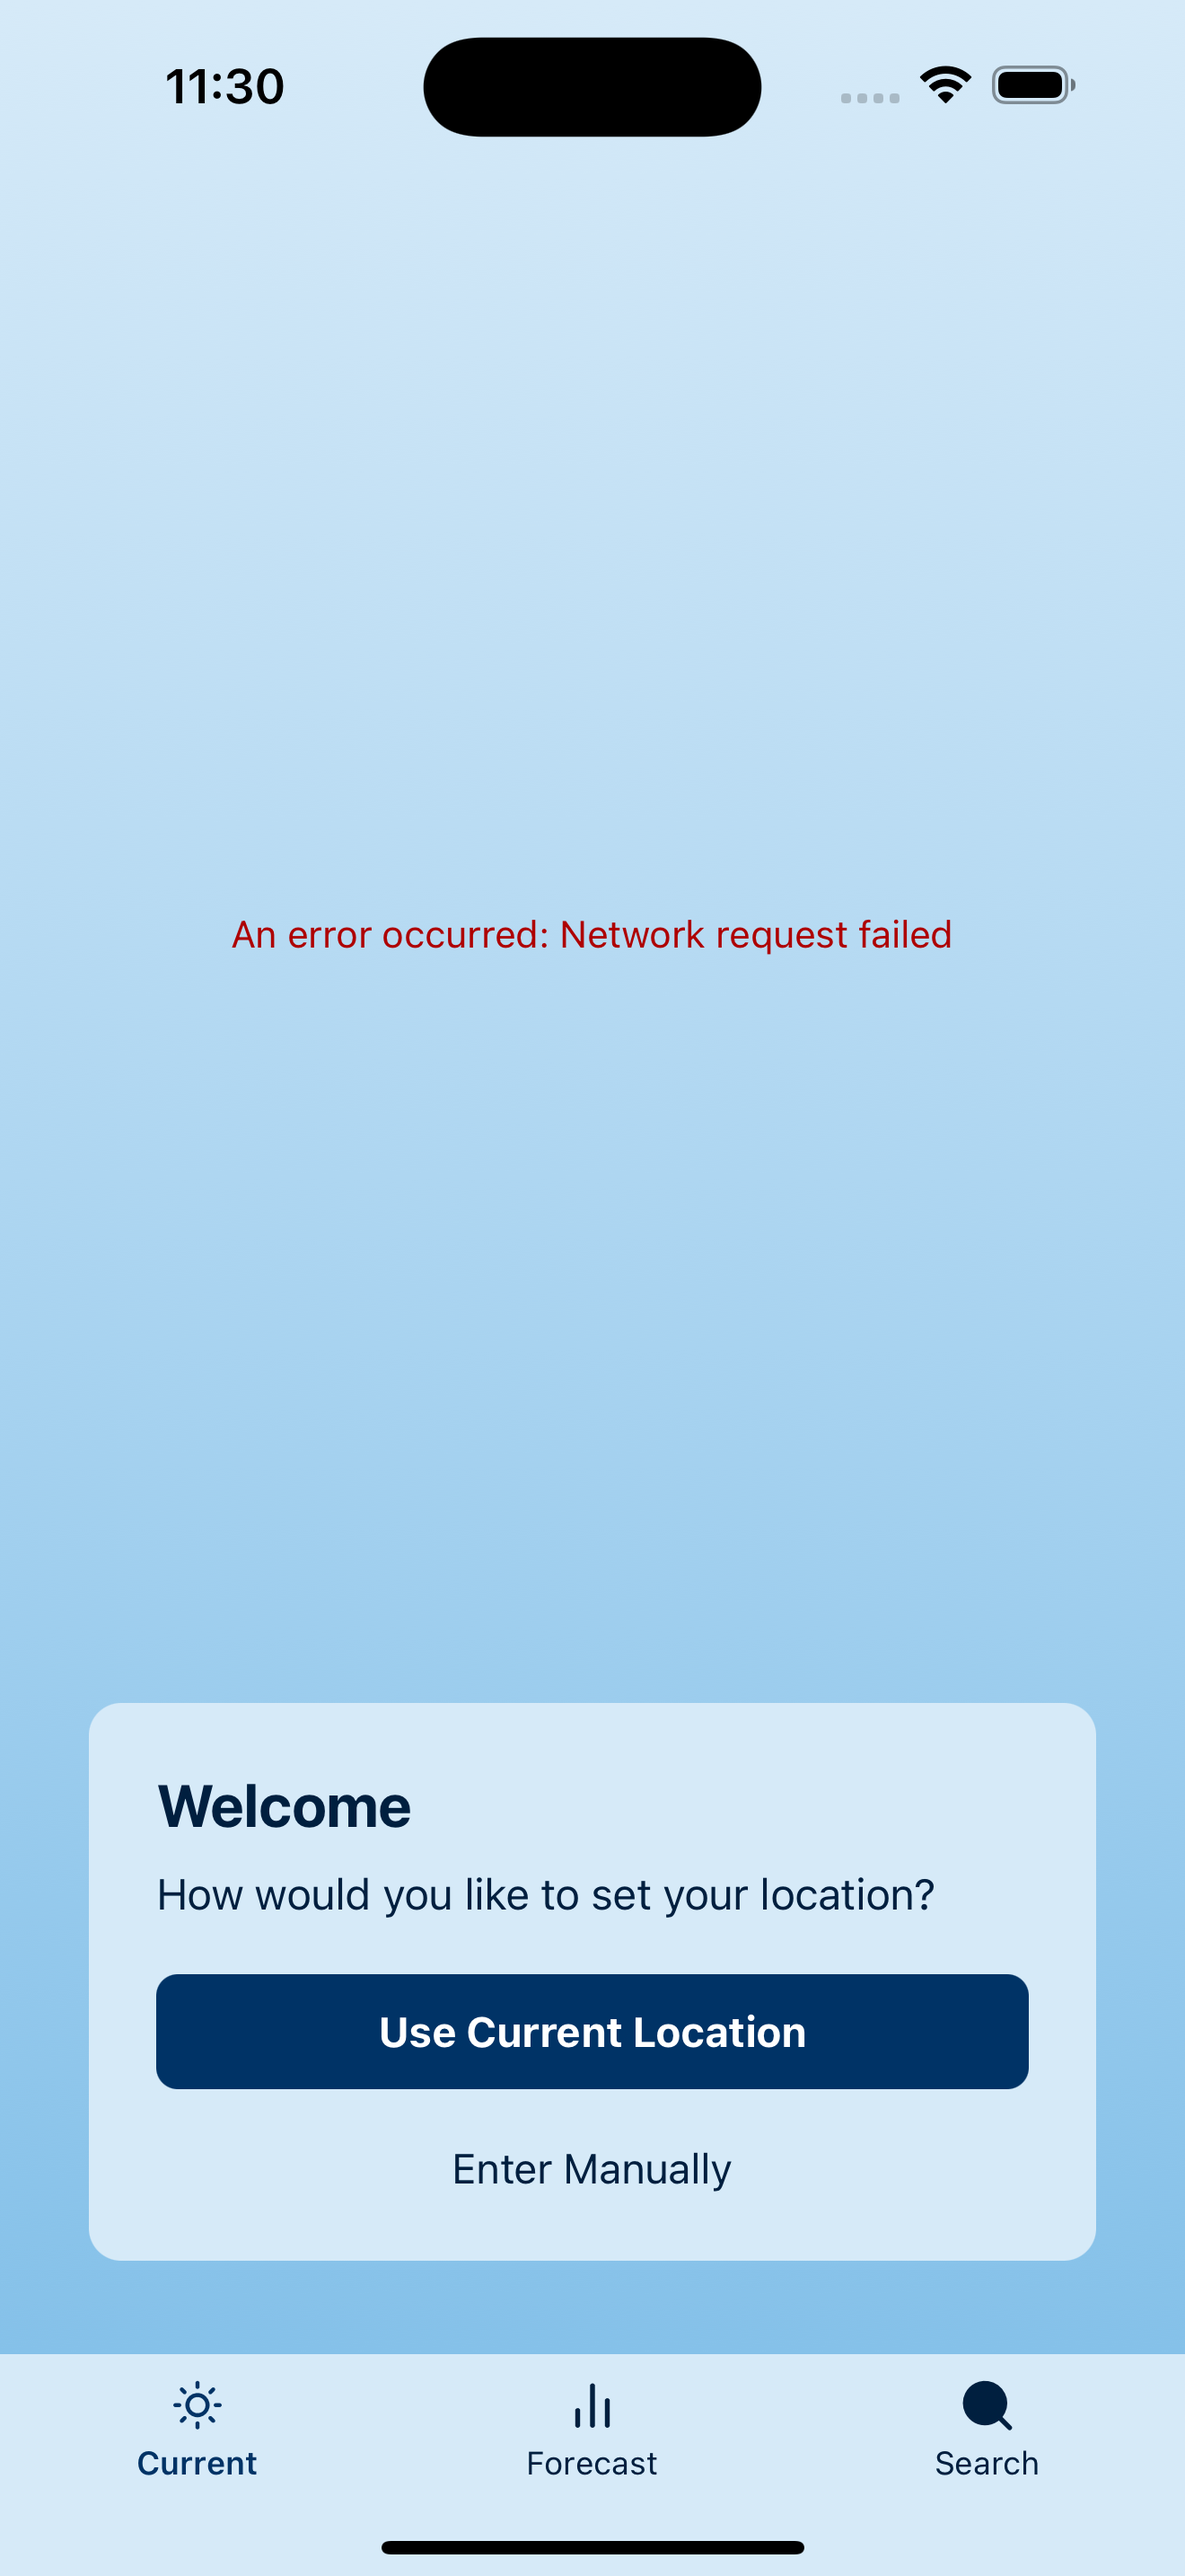
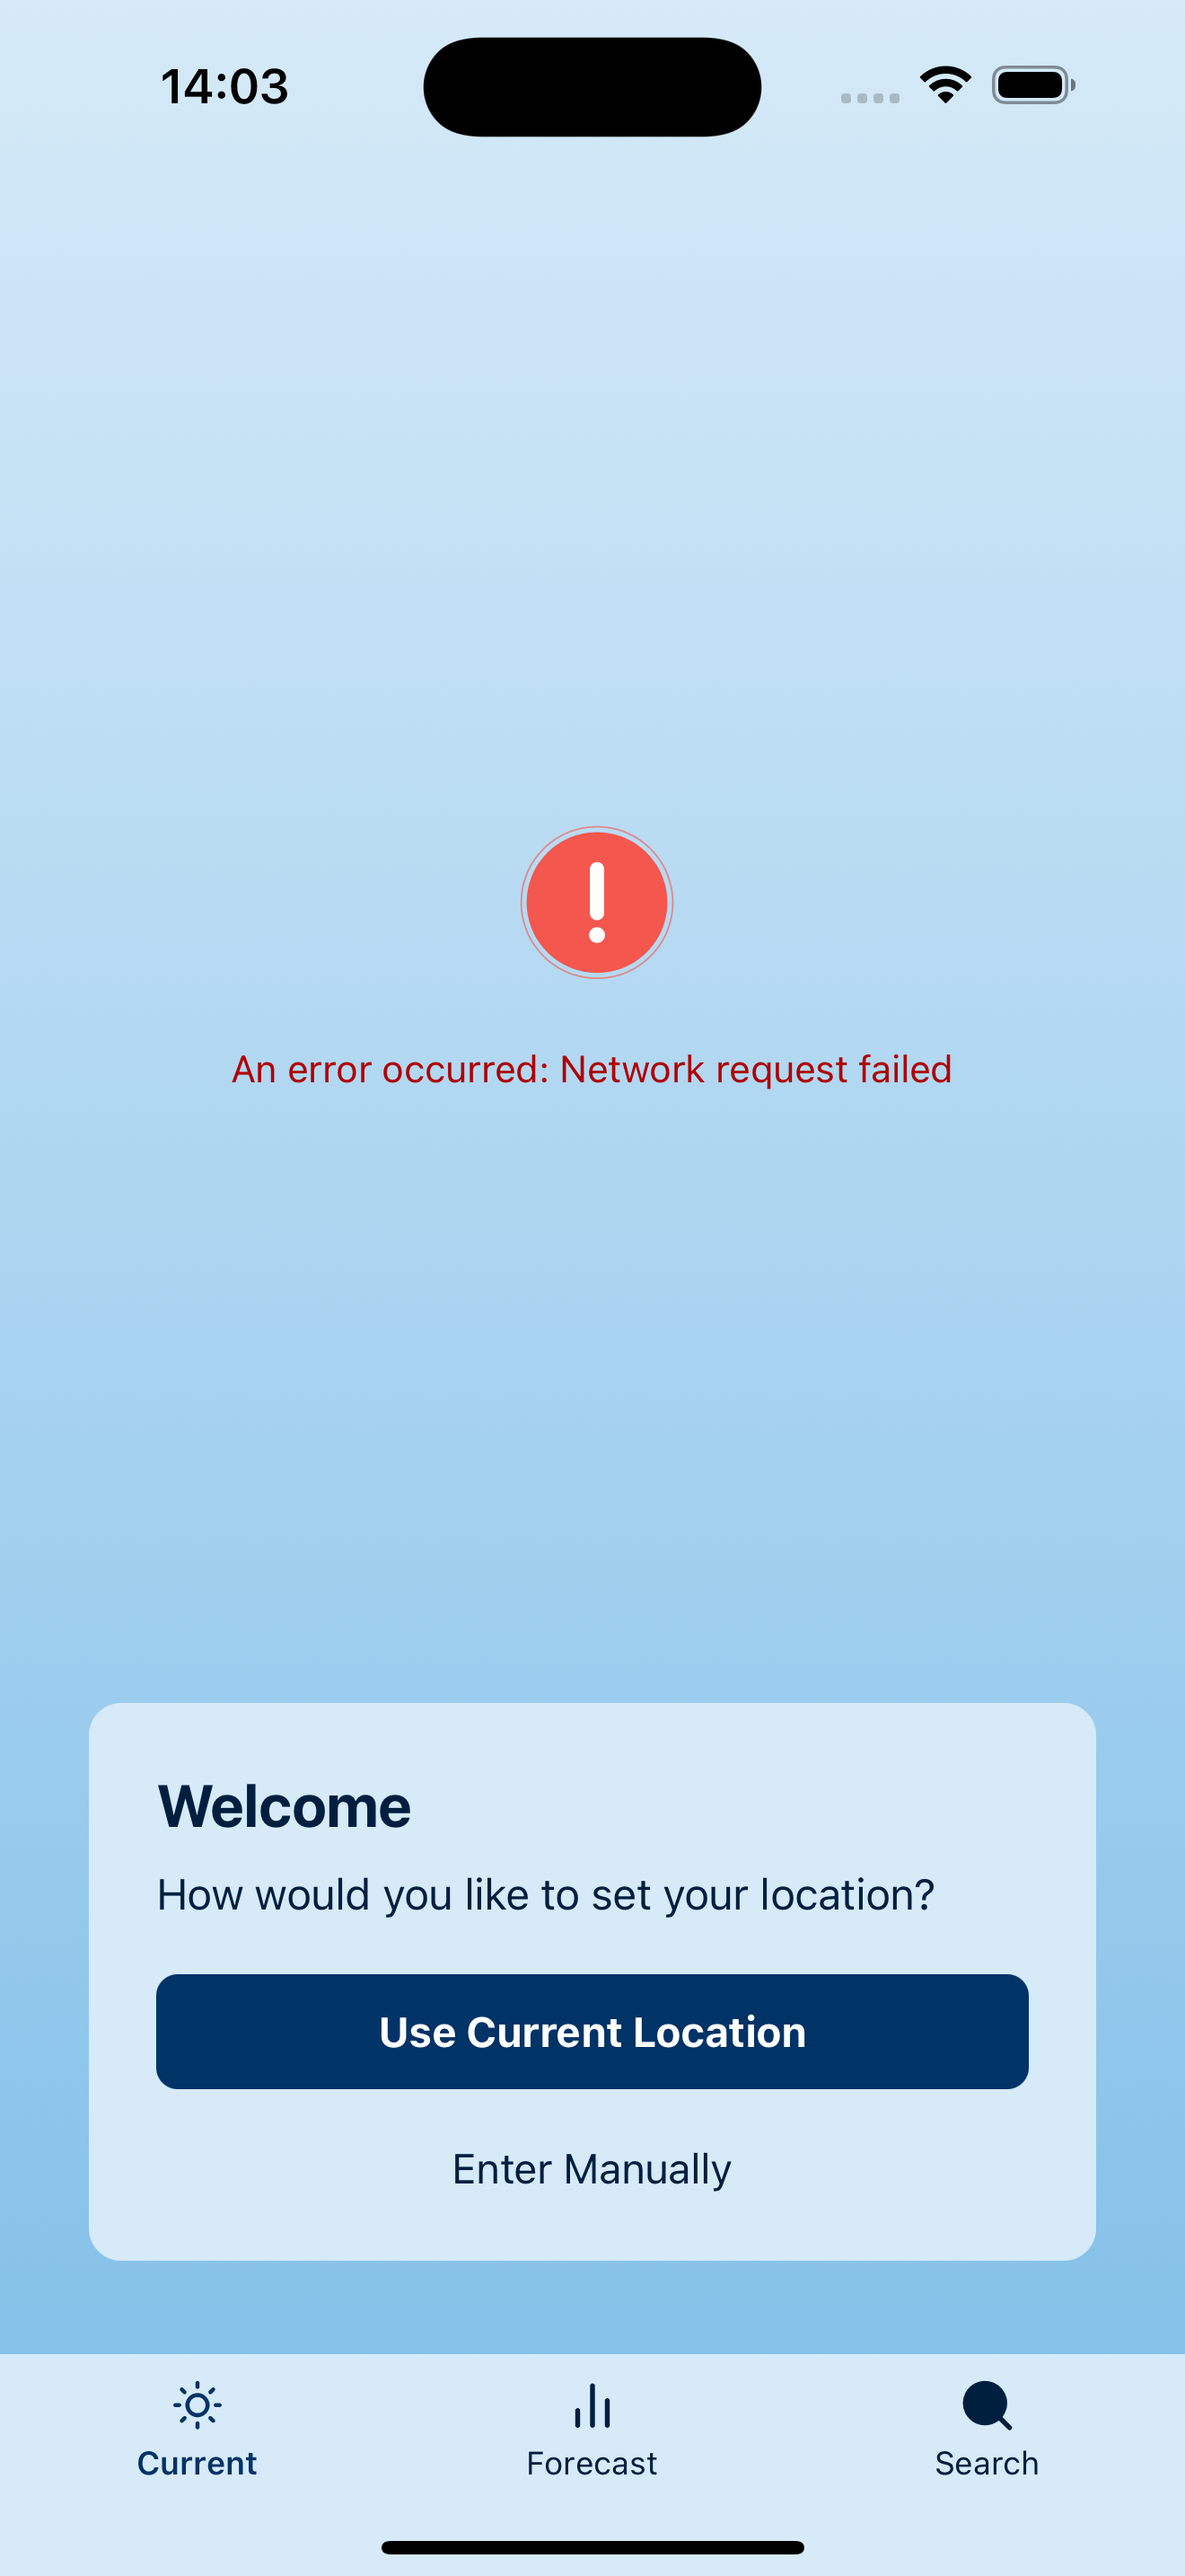
feat: add error animation

diff --git a/src/ui-components/Error.tsx b/src/ui-components/Error.tsx
@@ -1,11 +1,19 @@
 import {StyleSheet, View} from 'react-native';
 import {Text} from 'react-native-animatable';
 import {useTheme} from './theme';
+import LottieView from 'lottie-react-native';
+import React from 'react';
 
 export function Error({error}: {error: string}) {
   const theme = useTheme();
   return (
     <View style={styles.content} testID="error-message">
+      <LottieView
+        source={require('../assets/error_animation.json')}
+        autoPlay
+        loop
+        style={styles.lottie}
+      />
       <Text animation="fadeIn" style={{color: theme.text.error}}>
         An error occurred: {error}
       </Text>
@@ -15,4 +23,5 @@ export function Error({error}: {error: string}) {
 
 const styles = StyleSheet.create({
   content: {flex: 1, justifyContent: 'center', alignItems: 'center'},
+  lottie: {width: 100, height: 100},
 });

diff --git a/src/screens/__tests__/Forecast.spec.tsx b/src/screens/__tests__/Forecast.spec.tsx
@@ -62,10 +62,10 @@ describe('Forecast Component', () => {
     mockUseSelector.mockReturnValueOnce('Failed to fetch forecast'); //Error
     mockUseSelector.mockReturnValueOnce(undefined); //Selected City
 
-    render(<Forecast />);
+    const {getByTestId} = render(<Forecast />);
 
     //@ts-expect-error mocked AnimatedText causes the element to contain a text outside a Text component
-    expect(screen.getByTestId('error-message').children[0].children[1]).toBe(
+    expect(getByTestId('error-message').children[1].children[1]).toBe(
       'Failed to fetch forecast',
     );
   });
